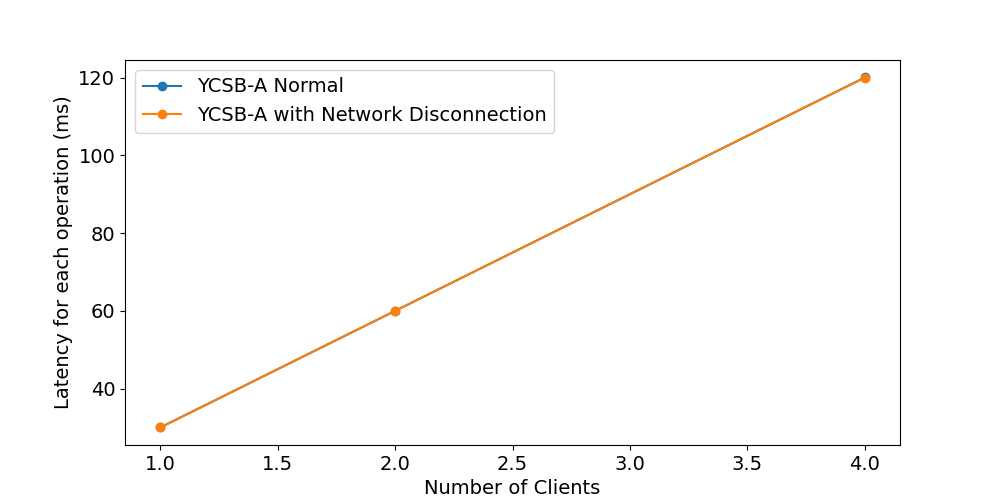
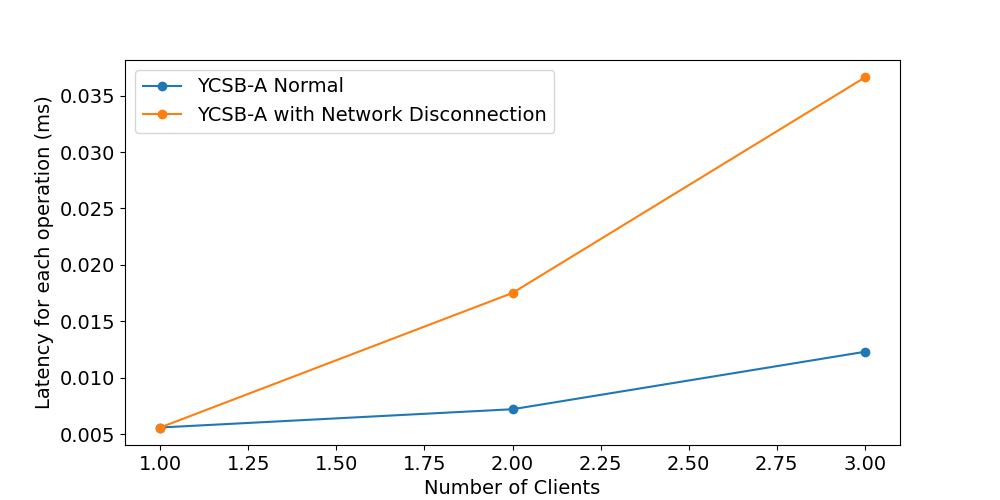
f

diff --git a/plot/plot.py b/plot/plot.py
@@ -3,28 +3,19 @@ import matplotlib.pyplot as plt
 
 fontSize = 14
 
-# Data points for YCSB-A
-x_a = [1, 2, 4]
-y_a= [(5565+5322+5208)/90,(8411+8182+8288)/90 ,(9780+9378+9268)/90]
-
-y_a_lat = [29.99356, 59.992, 120.0688 ]
-
-
-x_a_d = [1, 2, 4 ]
-
-y_a_d = [(5438+5353+5265)/90,(3598+3202+3466)/90,(2883+3033+2844)/90]
-
-y_a_d_lat = [29.992,60.0031,120.0489]
-
-
-
+x_a = [1, 2, 3]
+y_a = [178.83, 276.46, 315.84]
+y_a_lat = [0.005603, 0.007221, 0.012308]
+x_a_d = [1, 2, 3]
+y_a_d = [178.40, 113.96, 109.42]
+y_a_d_lat = [0.005603, 0.017519, 0.036601]
 
 
 
 # Creating the plot for YCSB-A
 plt.figure(figsize=(10, 5))
 plt.plot(x_a, y_a, marker='o', label='YCSB-A Normal')
-plt.plot(x_a_d, y_a_lat, marker='o', label='YCSB-A with Network Disconnection')
+plt.plot(x_a_d, y_a_d, marker='o', label='YCSB-A with Network Disconnection')
 plt.xlabel('Number of Clients')
 plt.ylabel('Throughput (ops/sec)')
 plt.legend(fontsize=fontSize)
@@ -44,13 +35,14 @@ plt.savefig('/home/Jamiroq/Documents/GitHub/myRabia/plot/Latency-A.png')
 plt.close()
 
 
-x_a = [1, 2, 4]
-y_a= [(5565+5322+5208)/90,(8411+8182+8288)/90 ,(9780+9378+9268)/90]
 
+x_a = [1, 2, 3]
+y_a = [(4020+3879+3919+3895+4127)/100, (6319+6417+6349+6156+6210)/100, (7217+6737+7266+7277+6599)]
+y_a_lat = [19.999/((4020+3879+3919+3895+4127)/5),39.995/((6319+6417+6349+6156+6210)/5),  60.065/((7217+6737+7266+7277+6599)/5)]
 
-x_a = [1, 2, 4]
-y_a_crash = [(5436+5448+5008)/90,(7638+7979+8446)/90, (8673+9129+8514)/90]
-y_a_crash_lat = [29.9972,60.0035,120.033]
+x_a_crash = [1, 2, 3]
+y_a_crash = [(5981+6023+6177+6000+5892)/150, (9309+9983+9941+10074+9835)/150, (10449+10353+10879+11084+10797)/150]
+y_a_crash_lat = [30.012/((5981+6023+6177+6000+5892)/5), 60.065/((9309+9983+9941+10074+9835)/5),89.997/((10449+10353+10879+11084+10797)/5)]
 
 plt.figure(figsize=(10, 5))
 plt.plot(x_a, y_a, marker='o', label='YCSB-A Normal')
@@ -63,10 +55,20 @@ plt.rcParams["font.size"] = 14
 plt.savefig('/home/Jamiroq/Documents/GitHub/myRabia/plot/throughput_with_crash_plot-A.png')
 plt.close()
 
+plt.figure(figsize=(10, 5))
+plt.plot(x_a, y_a_lat, marker='o', label='YCSB-A Normal')
+plt.plot(x_a_d, y_a_crash_lat, marker='o', label='YCSB-A with Replica Crash')
+plt.title('Latency vs. Number of Clients [YCSB-A]')
+plt.xlabel('Number of Clients')
+plt.ylabel('Latency for each operation (ms)')
+plt.legend(fontsize=fontSize)
+plt.rcParams["font.size"] = 14
+plt.savefig('/home/Jamiroq/Documents/GitHub/myRabia/plot/latency-A.png')
+plt.close()
 
 
 # Data points for YCSB-C
-x_c = [1, 2, 4 ]
+x_c = [1, 2, 3]
 y_c = [944.33,1863.22,3653.79]
 
 
@@ -82,24 +84,25 @@ plt.savefig('/home/Jamiroq/Documents/GitHub/myRabia/plot/throughput_plot-C.png')
 plt.close()
 
 
-
-x_a = [1, 2, 4]
-y_a= [259.17,407.36,461.94]
-x_a_geo = [1, 2, 4]
-y_a_geo = [1.04,1.40,1.72]
+x_b = [1, 2, 3]
+y_b = [(19849+18120+18312+19884+20320)/150, (39155+37878+40574+40981+41650)/150, (51998+52372+56123+54938+59552)/150]
+y_b_lat = [30/((19849+18120+18312+19884+20320)/5), 60/((39155+37878+40574+40981+41650)/5), 90/((51998+52372+56123+54938+59552)/5)]
 
 
-
-plt.figure(figsize=(10, 5))
-#plt.plot(x_a, y_a, marker='o', label='YCSB-A Normal')
-plt.plot(x_a, y_a, marker='o', label='YCSB-A Normal')
-plt.plot(x_a_geo, y_a_geo, marker='o', label='YCSB-A when Geo-Distributed')
-plt.title('Throughput vs. Number of Clients [YCSB-A,B,C]')
-plt.xlabel('Number of Clients')
-plt.ylabel('Throughput (ops/sec)')
-plt.legend(fontsize=fontSize)
-plt.rcParams["font.size"] = fontSize
-plt.savefig('/home/Jamiroq/Documents/GitHub/myRabia/plot/throughput_plot-_geo.png')
-plt.close()
+x_c = [1, 2, 3]
+y_c =[(25600+25602+27349+26022+24428)/150 , (52150+53915+52436+50504+49684)/150, (75316+74925+77946+79475+78959)/150]
+y_c_lat = [30/((25600+25602+27349+26022+24428)/5), 60/((52150+53915+52436+50504+49684)/5), 90/((75316+74925+77946+79475+78959)/5)]
 
 
+x_5 = [1, 2, 3]
+y_5 = [(4306+4362+4449)/90, (6315+5695+6551)/90, (6739+6941+7016+6659+7053)/120]
+y_lat = [30/((4306+4362+4449)/3), 60/((6315+5695+6551)/3), 90/((6739+6941+7016+6659+7053)/5)]
+
+x_7= [1, 2, 3]
+y_7 = [(3089+3492+3251+3242)/120, (4453+4615+4276+4593)/120, (4598+5005+4979+4783+4855)/120]
+y_7_lat = [30/((3089+3492+3251+3242)/4), 60/((4453+4615+4276+4593)/4), 90/((4598+5005+4979+4783+4855)/5)]
+
+
+x_geo = [1, 2, 3]
+y_geo = [(23+23+23)/90, (39+43+51+45+44+43)/150,(55+46+49+64)/120]
+y_geo_lat = [30/((23+23+23)/3), 60/((39+43+51+45+44+43)/6), 90/((55+46+49+64)/4)]

diff --git a/plot/PPPlot.py b/plot/PPPlot.py
@@ -1,0 +1,45 @@
+import matplotlib as mpl
+import matplotlib.pyplot as plt
+import numpy as np
+
+# フォントの設定
+mpl.rcParams['font.family'] = 'Hiragino Sans'  
+mpl.rcParams['font.size'] = 30  
+
+# データの定義
+throughput = {
+    'normal': [(4020+3879+3919+3895+4127)/100, (6319+6417+6349+6156+6210)/100, (7217+6737+7266+7277+6599)/100],
+    'partition': [(5981+6023+6177+6000+5892)/150, (9309+9983+9941+10074+9835)/150, (10449+10353+10879+11084+10797)/150]
+}
+latency = {
+    'normal': [19.999/((4020+3879+3919+3895+4127)/5),39.995/((6319+6417+6349+6156+6210)/5),  60.065/((7217+6737+7266+7277+6599)/5)],
+    'partition': [30.012/((5981+6023+6177+6000+5892)/5), 60.065/((9309+9983+9941+10074+9835)/5),89.997/((10449+10353+10879+11084+10797)/5)]
+}
+
+plt.figure(figsize=(12, 8))  
+
+plt.plot(throughput['normal'], latency['normal'], 'b-', label='通常', marker='o', markersize=10)
+plt.plot(throughput['partition'], latency['partition'], 'g-', label='ネットワーク分断あり', marker='s', markersize=10)
+
+# グラフの設定
+plt.xlabel('Throughput (reqs/sec)', fontsize=24)
+plt.ylabel('Median Latency (ms)', fontsize=24)
+plt.legend(fontsize=30)
+plt.grid(True)
+
+# 軸のフォントサイズを設定
+plt.tick_params(axis='both', which='major', labelsize=12)
+
+plt.tight_layout()
+
+plt.savefig('network_partition.png', dpi=300, bbox_inches='tight')
+
+plt.show()
+
+x_a = [1, 2, 3]
+y_a = [(4020+3879+3919+3895+4127)/100, (6319+6417+6349+6156+6210)/100, (7217+6737+7266+7277+6599)]
+y_a_lat = [19.999/((4020+3879+3919+3895+4127)/5),39.995/((6319+6417+6349+6156+6210)/5),  60.065/((7217+6737+7266+7277+6599)/5)]
+
+x_a_crash = [1, 2, 3]
+y_a_crash = [(5981+6023+6177+6000+5892)/150, (9309+9983+9941+10074+9835)/150, (10449+10353+10879+11084+10797)/150]
+y_a_crash_lat = [30.012/((5981+6023+6177+6000+5892)/5), 60.065/((9309+9983+9941+10074+9835)/5),89.997/((10449+10353+10879+11084+10797)/5)]
